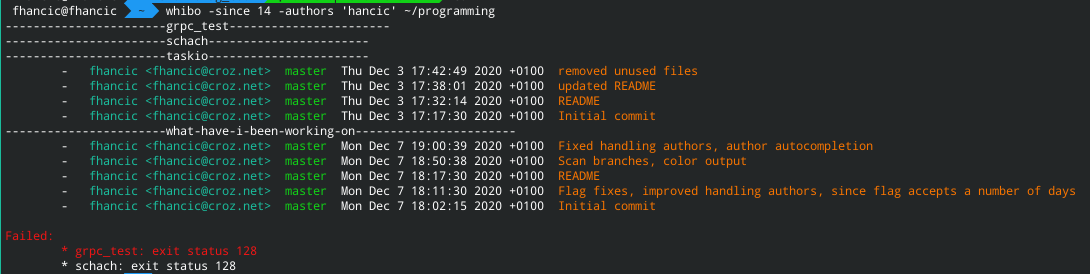
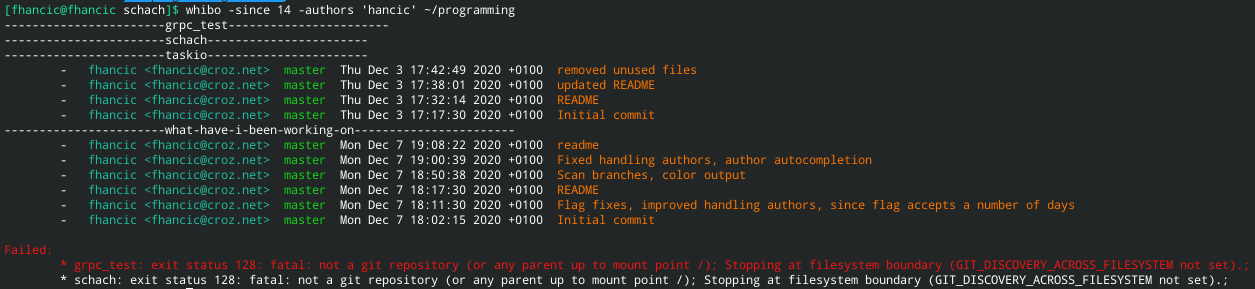
log errors

Changed region(s): [[0.0, 0.0, 0.9982, 0.7883], [0.0312, 0.8759, 0.9982, 1.0], [0.0, 0.8467, 0.0624, 0.9051]]

diff --git a/main.go b/main.go
@@ -73,9 +73,9 @@ func gitBranches(target string) ([]string, error) {
 	cmd := exec.Command("git", "branch", "-l")
 	cmd.Dir = target
 
-	output, err := cmd.Output()
+	output, err := cmd.CombinedOutput()
 	if err != nil {
-		return nil, err
+		return nil, fmt.Errorf("%v: %s", err, strings.ReplaceAll(string(output), "\n", "; "))
 	}
 	branches := branchRgx.FindAllStringSubmatch(string(output), -1)
 
@@ -119,8 +119,11 @@ func setupAuthors() []string {
 func gitLog(since time.Duration, target, branch string) ([]byte, error) {
 	cmd := exec.Command("git", "log", branch, fmt.Sprintf("--since=\"%d days ago\"", int(math.Round(since.Hours()/24))))
 	cmd.Dir = target
-	output, err := cmd.Output()
-	return output, err
+	output, err := cmd.CombinedOutput()
+	if err != nil {
+		return nil, fmt.Errorf("%v: %s", err, strings.ReplaceAll(string(output), "\n", "; "))
+	}
+	return output, nil
 }
 
 func outputAuthorCommits(branch string, output []byte, allAuthors []string) {
